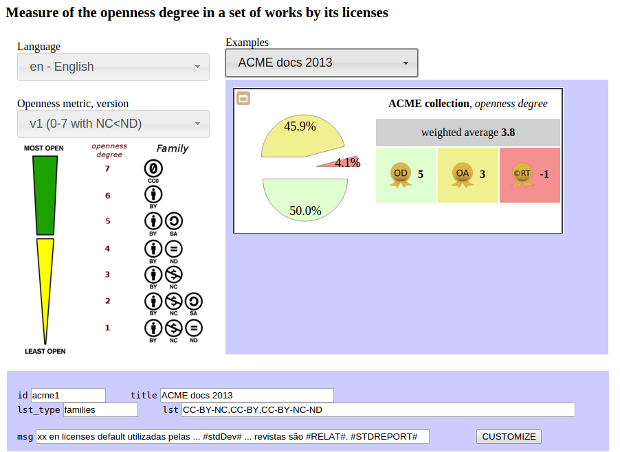
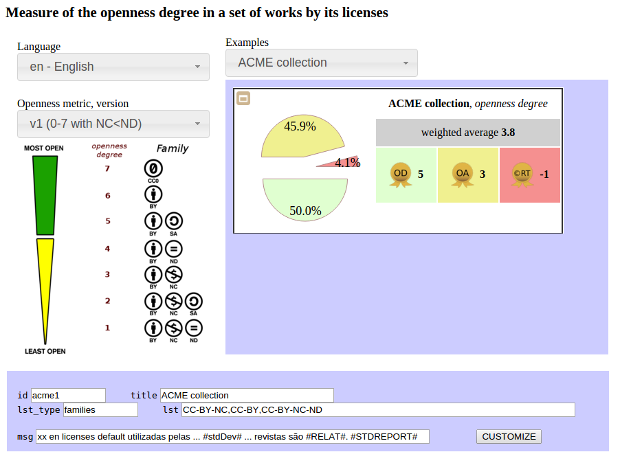
readme report illustrations

Changed region(s): [[0.3677, 0.0929, 0.6742, 0.1858], [0.3065, 0.8673, 0.3984, 0.8982]]

diff --git a/src/php/demo.php b/src/php/demo.php
@@ -40,7 +40,7 @@
 			}
 		},
 		{ xid: 'acme1'
-		 ,title: 'ACME docs 2013' 
+		 ,title: 'ACME collection' 
 		 ,msg_pt: "xx pt licenças default utilizadas pelas ... #stdDev# ... revistas são #RELAT#. #STDREPORT#"
 		 ,msg_en: "xx en licenses default utilizadas pelas ... #stdDev# ... revistas são #RELAT#. #STDREPORT#"
 		 ,lst_type: 'families'
@@ -204,7 +204,7 @@
 		      <option value="ex1" selected="selected">SciELO-BR profile</option>
 		</optgroup>
 		<optgroup label="Fake (demo)">
-		      <option value="ex2">ACME docs 2013</option>
+		      <option value="ex2">ACME collection</option>
 		      <option value="ex3">yyyy</option>
 		</optgroup>
 		<!-- option value="exP">PERSONALIZADO</option -->

diff --git a/README.md b/README.md
@@ -95,7 +95,7 @@ For final users, the JSON, numbers or tables are not pretty. Communication about
 
 A typical report must show a pie chart of the distribution of the elements in each scope, the version of the *openness degree scale* used in the report, the general *openness degree average* of the set, and *openness degree averages* of each scope. Standard colors and icons also helps to compare and fastly understand the results. The standard report text also need some multilingual support.
 
-![demo, reports illustration 2](_doc/report-illustr2-620px.png)
+![demo, reports illustration 2](_doc/report-illustr2-680px.png)
 
 The [demo](src/php/demo.php) shows a more complete contextualization, use of box-report interface, and use of the service parameters for AJAX contexts.
 
